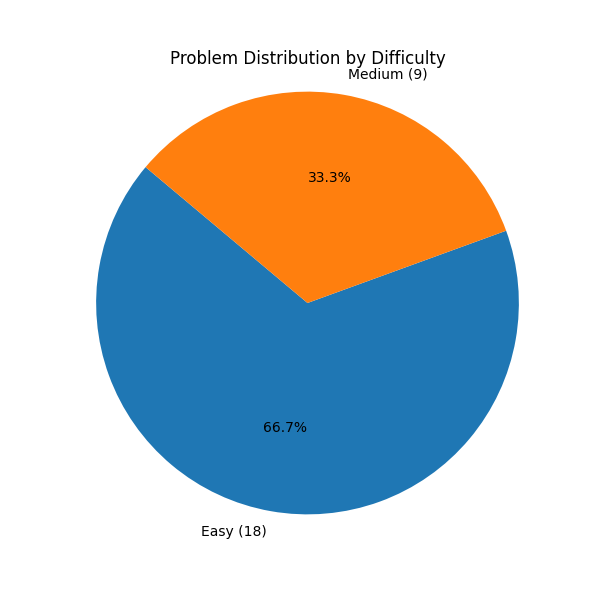
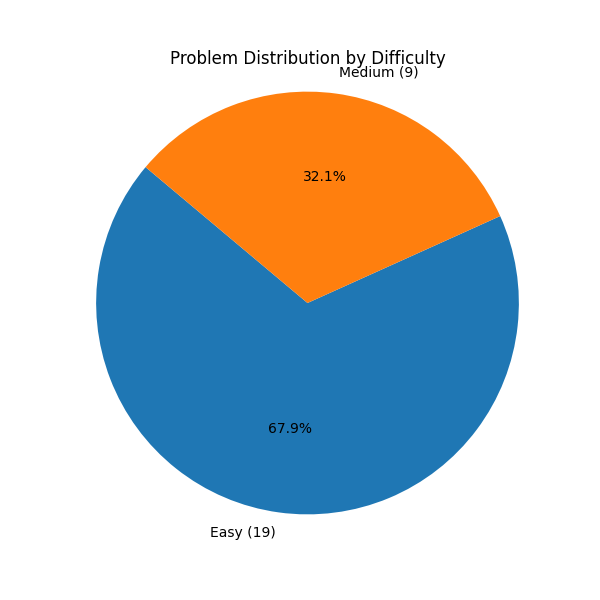
94-binary-tree-inorder-traversal

diff --git a/easy/94-binary-tree-inorder-traversal/solution/Solution.java b/easy/94-binary-tree-inorder-traversal/solution/Solution.java
@@ -1,0 +1,30 @@
+/**
+ * Definition for a binary tree node.
+ * public class TreeNode {
+ *     int val;
+ *     TreeNode left;
+ *     TreeNode right;
+ *     TreeNode() {}
+ *     TreeNode(int val) { this.val = val; }
+ *     TreeNode(int val, TreeNode left, TreeNode right) {
+ *         this.val = val;
+ *         this.left = left;
+ *         this.right = right;
+ *     }
+ * }
+ */
+import java.util.*;
+class Solution {
+    public List<Integer> inorderTraversal(TreeNode root) {
+        ArrayList<Integer> arr = new ArrayList<>();
+        inorder(root, arr);
+        return arr;
+    }
+
+    public void inorder(TreeNode root, List<Integer> arr){
+        if(root == null) return;
+        inorder(root.left, arr);
+        arr.add(root.val);
+        inorder(root.right, arr);
+    }
+}

diff --git a/easy/94-binary-tree-inorder-traversal/solution/TreeNode.java b/easy/94-binary-tree-inorder-traversal/solution/TreeNode.java
@@ -1,0 +1,12 @@
+ public class TreeNode {
+     int val;
+     TreeNode left;
+     TreeNode right;
+     TreeNode() {}
+     TreeNode(int val) { this.val = val; }
+     TreeNode(int val, TreeNode left, TreeNode right) {
+         this.val = val;
+         this.left = left;
+         this.right = right;
+     }
+ }

diff --git a/easy/94-binary-tree-inorder-traversal/README.md b/easy/94-binary-tree-inorder-traversal/README.md
@@ -1,0 +1,118 @@
+# 94. Binary Tree Inorder Traversal
+
+**Difficulty:** Easy  
+**Link:** [https://leetcode.com/problems/binary-tree-inorder-traversal/](https://leetcode.com/problems/binary-tree-inorder-traversal/)
+
+## Problem Description
+
+Given the 
+root
+ of a binary tree, return 
+the inorder traversal of its nodes' values
+.
+
+
+ 
+
+
+Example 1:
+
+
+
+
+Input:
+ 
+root = [1,null,2,3]
+
+
+Output:
+ 
+[1,3,2]
+
+
+Explanation:
+
+
+
+
+
+
+Example 2:
+
+
+
+
+Input:
+ 
+root = [1,2,3,4,5,null,8,null,null,6,7,9]
+
+
+Output:
+ 
+[4,2,6,5,7,1,3,9,8]
+
+
+Explanation:
+
+
+
+
+
+
+Example 3:
+
+
+
+
+Input:
+ 
+root = []
+
+
+Output:
+ 
+[]
+
+
+
+
+Example 4:
+
+
+
+
+Input:
+ 
+root = [1]
+
+
+Output:
+ 
+[1]
+
+
+
+
+ 
+
+
+Constraints:
+
+
+
+
+The number of nodes in the tree is in the range 
+[0, 100]
+.
+
+
+-100 <= Node.val <= 100
+
+
+
+
+ 
+
+
+Follow up:
+ Recursive solution is trivial, could you do it iteratively?

diff --git a/README.md b/README.md
@@ -11,6 +11,8 @@ My solutions to LeetCode problems in Python and Java
 
 
 
+
+
 ## 📊 Problem Distribution
 ![By Difficulty and Language](assets/progress_difficulty_language.png)
 ![By Difficulty (Pie)](assets/pie_difficulty.png)
